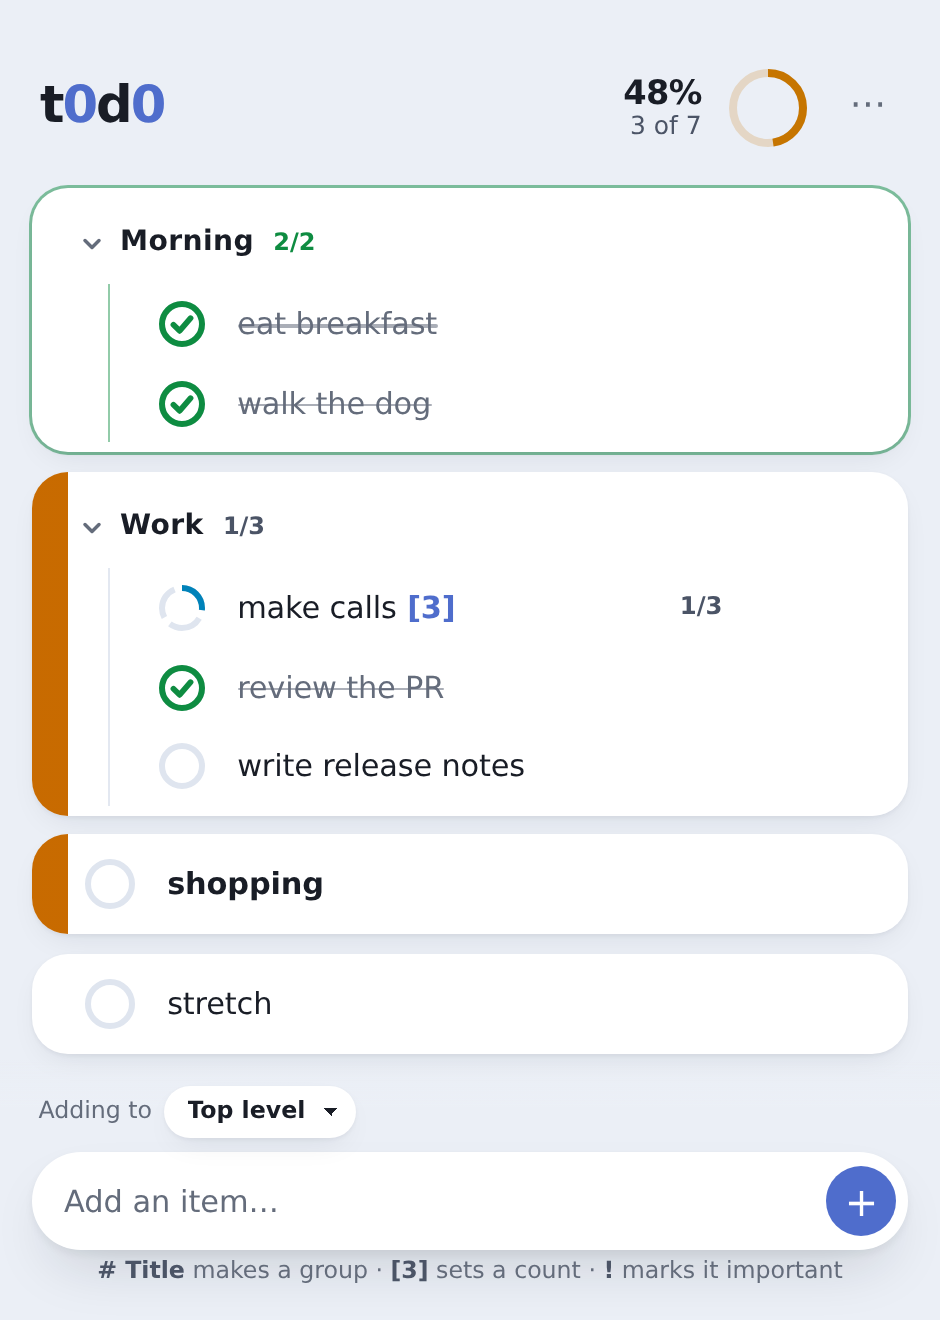
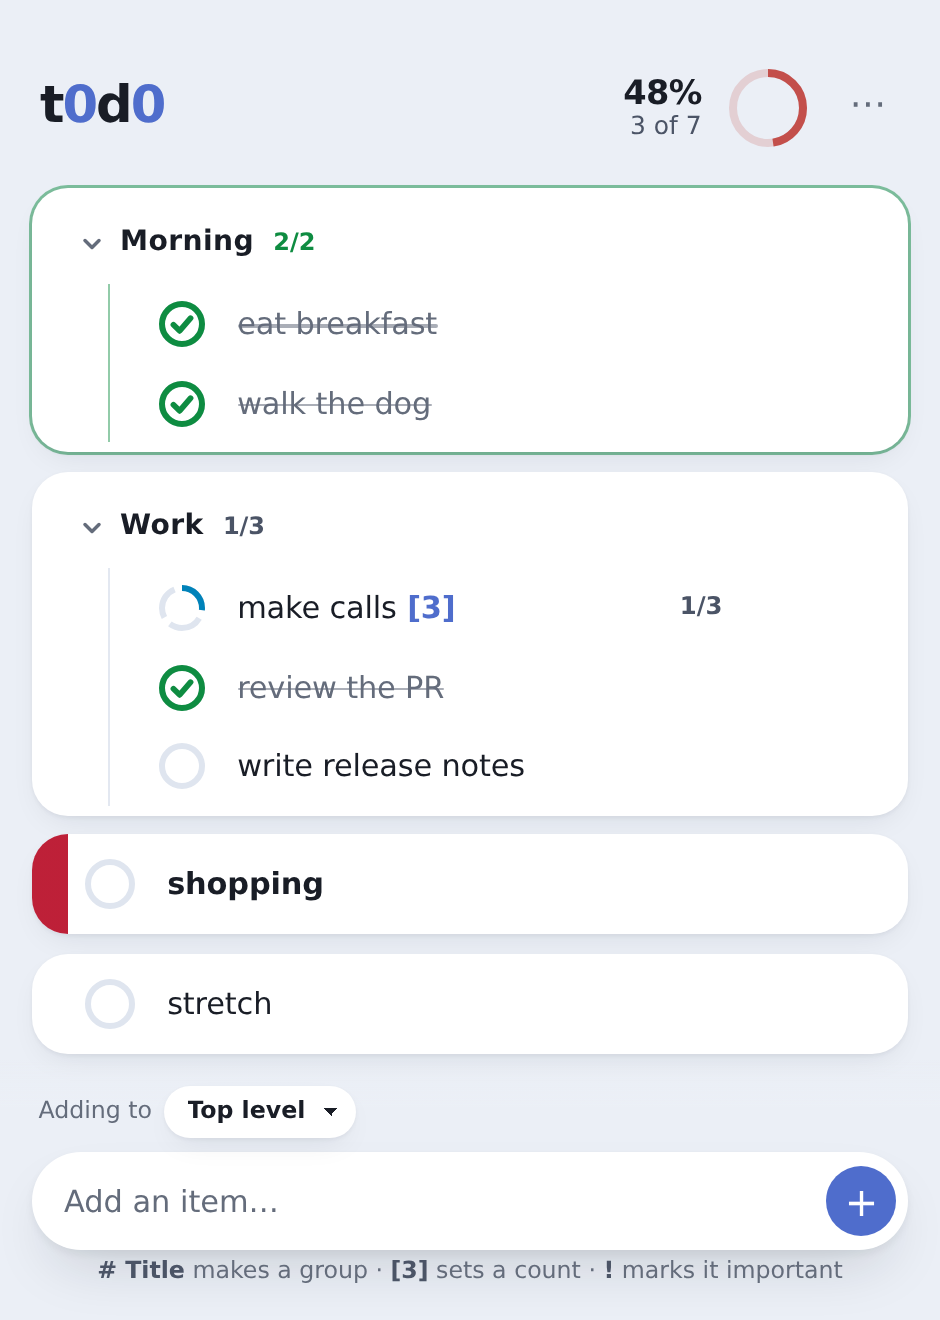
feat: make the importance mark red, and widen it on a nested row

Changed region(s): [[0.0309, 0.3417, 0.0926, 0.7144], [0.833, 0.0621, 0.8638, 0.1242], [0.8021, 0.0311, 0.833, 0.0621]]

diff --git a/src/styles/tokens.css b/src/styles/tokens.css
@@ -31,11 +31,23 @@
      rainbow. Dark mode starts high enough to need much less of a lift. */
   --ring-lift: 10%;
 
-  /* The importance mark. Warm and off the progress sweep's arc, so a flagged row
-     never reads as "nearly done" or as a warning. It paints a group's left edge,
-     a slim pill on a row, and a bolder word — all non-text, so 3:1 against
-     --card is the bar it has to clear, not 4.5:1. */
-  --flag: oklch(62% 0.16 62);
+  /* The importance mark.
+     Red rather than the amber it started as, and the reason is measured: the day
+     ring sweeps hue 25 to 320, and at hue 60 it landed within dE 1 of that amber
+     — the same colour, at the part of the sweep where important work is still
+     outstanding. So the ring and the marks on the rows it described said two
+     different things in one voice.
+     Red is the ring's own starting hue, but the ring is barely ever painted
+     there: the arc is transparent at nothing-done, so the collision is with
+     hues the ring only passes through at a sliver of progress. Across the hues
+     it actually draws it stays dE 30-plus clear.
+     It sits close to --danger by design rather than accident — both mean "look
+     at this" — and the two never share a screen: --danger is text in the
+     settings sheet, this is an edge on a row.
+     Deeper in dark than a straight lightening would give, because a pale red
+     reads as salmon. It paints a group's left edge, a slim pill on a row, and a
+     bolder word — all non-text, so 3:1 against --card is the bar, not 4.5:1. */
+  --flag: oklch(52% 0.19 20);
 
   /* Text sitting on a filled accent, and the destructive red. Both flip with
      the theme: the accent lightens in dark mode, so white stops being legible
@@ -96,7 +108,7 @@
     --ring-l: 74%;
     --ring-c: 0.14;
     --ring-lift: 6%;
-    --flag: oklch(78% 0.15 68);
+    --flag: oklch(68% 0.18 22);
     --on-accent: #10141a;
     --danger: oklch(74% 0.15 25);
     --shadow-card: 0 1px 2px rgb(0 0 0 / 35%), 0 6px 16px -6px rgb(0 0 0 / 45%);
@@ -118,7 +130,7 @@
   --ring-l: 74%;
   --ring-c: 0.14;
   --ring-lift: 6%;
-  --flag: oklch(78% 0.15 68);
+  --flag: oklch(68% 0.18 22);
   --on-accent: #10141a;
   --danger: oklch(74% 0.15 25);
   --shadow-card: 0 1px 2px rgb(0 0 0 / 35%), 0 6px 16px -6px rgb(0 0 0 / 45%);

diff --git a/src/styles/app.css b/src/styles/app.css
@@ -643,7 +643,11 @@ body.dragging-row {
   left: 0;
   top: 0.3rem;
   bottom: 0.3rem;
-  width: 3px;
+  /* A third of the edge a card wears, so the two marks are the same idea at two
+     scales and this follows if --r-card ever moves. At 3px it read as a
+     hairline next to the 1.5px rail; past 8px it stops being a capsule and
+     starts crowding the tick. */
+  width: calc(var(--r-card) / 3);
   border-radius: 999px;
   background: var(--flag);
   pointer-events: none;
